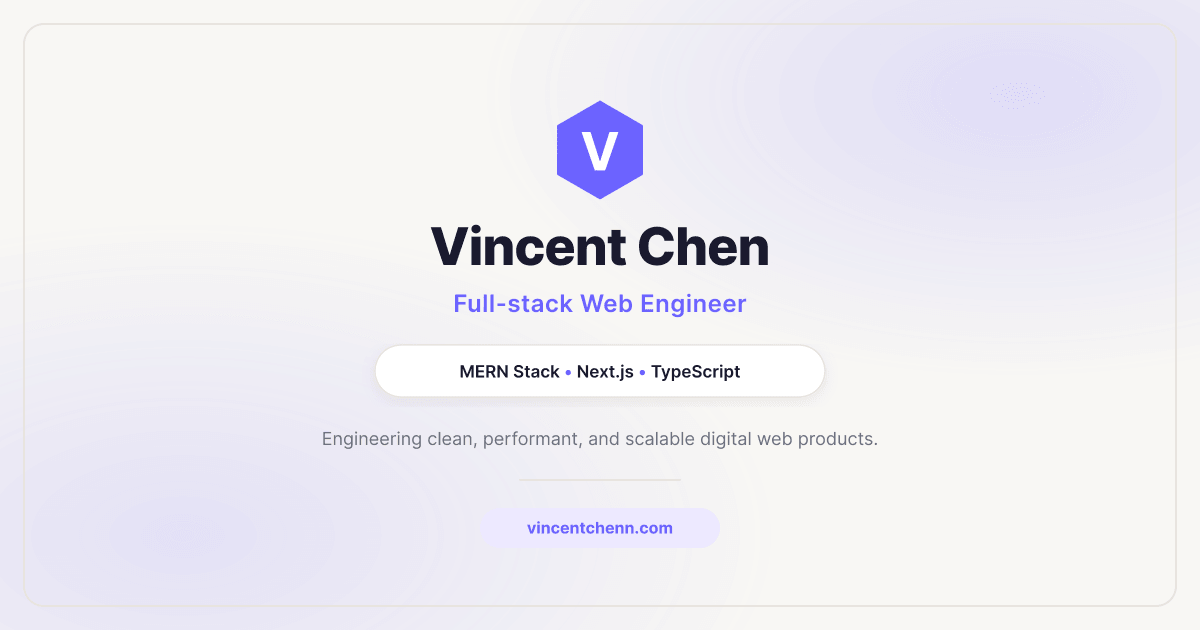
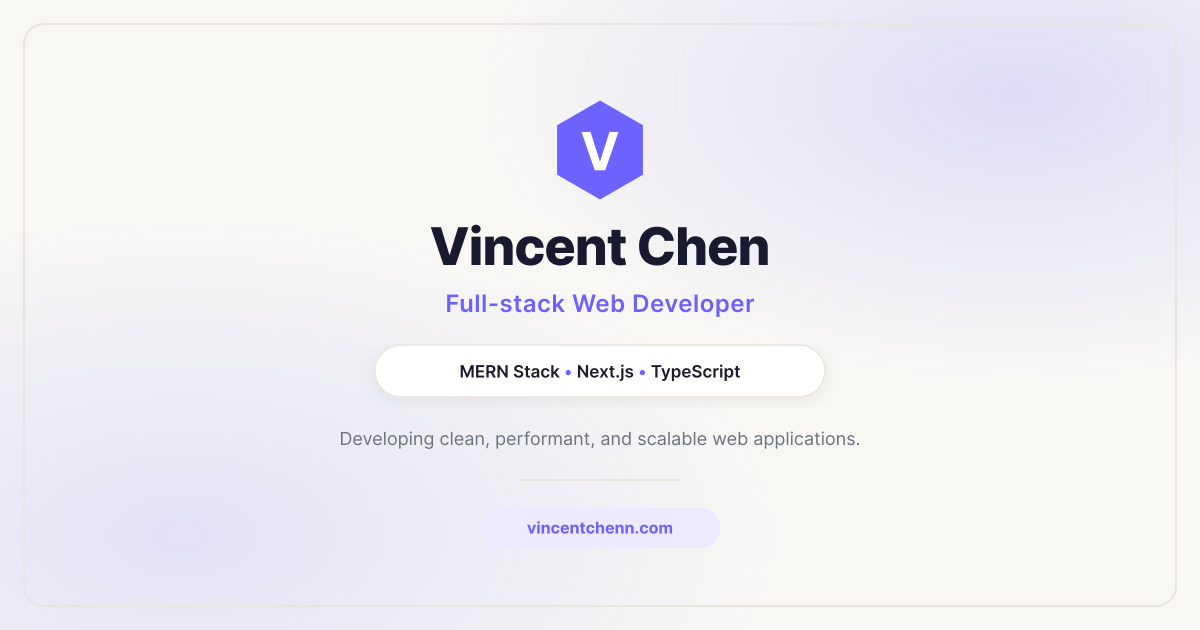
refactor: Title, UI, SEO, and Metadata Updates

Changed region(s): [[0.2775, 0.6635, 0.74, 0.7238], [0.37, 0.4524, 0.6167, 0.5127]]

diff --git a/app/layout.tsx b/app/layout.tsx
@@ -15,13 +15,14 @@ const inter = Inter({
 
 export const metadata: Metadata = {
   metadataBase: new URL("https://vincentchenn.com"),
-  title: "Vincent Chen | Full-stack Web Engineer",
+  title: "Vincent Chen | Full-stack Web Developer",
   description:
-    "Software engineer with hands-on experience in full-stack MERN development, specializing in building clean and performant web applications with React, TypeScript, Express, and MongoDB.",
+    "Full-stack web developer with hands-on experience in MERN development, specializing in building clean and performant web applications with React, TypeScript, Express, and MongoDB.",
   keywords: [
     "Vincent Chen",
-    "Full-stack Web Engineer",
-    "Software Engineer",
+    "Vincent Chenn",
+    "Full-stack Web Developer",
+    "Web Developer",
     "React",
     "TypeScript",
     "Node.js",
@@ -40,24 +41,24 @@ export const metadata: Metadata = {
     type: "website",
     locale: "en_US",
     url: "https://vincentchenn.com",
-    title: "Vincent Chen | Full-stack Web Engineer",
+    title: "Vincent Chen | Full-stack Web Developer",
     description:
-      "Software engineer with hands-on experience in full-stack MERN development, specializing in building clean and performant web applications with React, TypeScript, Express, and MongoDB.",
+      "Full-stack web developer with hands-on experience in MERN development, specializing in building clean and performant web applications with React, TypeScript, Express, and MongoDB.",
     siteName: "Vincent Chen Portfolio",
     images: [
       {
         url: "/images/og-image.png",
         width: 1200,
         height: 630,
-        alt: "Vincent Chen | Full-stack Web Engineer Portfolio",
+        alt: "Vincent Chen | Full-stack Web Developer Portfolio",
       },
     ],
   },
   twitter: {
     card: "summary_large_image",
-    title: "Vincent Chen | Full-stack Web Engineer",
+    title: "Vincent Chen | Full-stack Web Developer",
     description:
-      "Software engineer with hands-on experience in full-stack MERN development, specializing in building clean and performant web applications with React, TypeScript, Express, and MongoDB.",
+      "Full-stack web developer with hands-on experience in MERN development, specializing in building clean and performant web applications with React, TypeScript, Express, and MongoDB.",
     images: ["/images/og-image.png"],
   },
   robots: {
@@ -75,7 +76,7 @@ export default function RootLayout({ children }: { children: React.ReactNode }) 
     "@type": "Person",
     name: "Vincent Chen",
     url: "https://vincentchenn.com",
-    jobTitle: "Full-stack Web Engineer",
+    jobTitle: "Full-stack Web Developer",
     sameAs: [
       "https://github.com/Vincent0-8",
       "https://www.linkedin.com/in/vincent-chenn/",
@@ -105,7 +106,7 @@ export default function RootLayout({ children }: { children: React.ReactNode }) 
               history.scrollRestoration = "manual";
               window.scrollTo(0, 0);
               console.log(
-                "%cVincent Chen | Full-stack Web Engineer\\n%cDesigned and developed with Next.js, TypeScript & Tailwind CSS.\\nContact: me@vincentchenn.com",
+                "%cVincent Chen | Full-stack Web Developer\\n%cDesigned and developed with Next.js, TypeScript & Tailwind CSS.\\nContact: me@vincentchenn.com",
                 "color: #6c63ff; font-weight: bold; font-size: 14px;",
                 "color: #6b7280; font-size: 12px;"
               );

diff --git a/components/sections/Hero.tsx b/components/sections/Hero.tsx
@@ -65,13 +65,13 @@ export default function Hero() {
       {/* 2. Headline Title */}
       <div className="mb-4 flex">
         <h2 className="text-lg sm:text-xl font-bold text-(--color-text-primary)">
-          Full-stack Web Engineer <span className="text-(--color-text-secondary) font-normal">— MERN Stack & TypeScript</span>
+          Full-stack Web Developer <span className="text-(--color-text-secondary) font-normal">— MERN Stack & TypeScript</span>
         </h2>
       </div>
 
       {/* 3. Bio Description */}
       <p className="text-(--color-text-secondary) leading-relaxed text-sm sm:text-base max-w-6xl mb-8">
-        Full-stack Web Engineer with hands-on experience in full-stack MERN development, specializing in building clean and performant web applications with{" "}
+        Full-stack Web Developer with hands-on experience in full-stack MERN development, specializing in building clean and performant web applications with{" "}
         <span className="inline-flex items-center font-medium text-accent bg-accent/10 px-2 py-0.5 rounded text-xs">
           React
         </span>{" "}

diff --git a/app/projects/layout.tsx b/app/projects/layout.tsx
@@ -3,11 +3,11 @@ import type { Metadata } from "next";
 export const metadata: Metadata = {
   title: "All Projects | Vincent Chen",
   description:
-    "A complete archive of web applications, platforms, and client work engineered by Vincent Chen. Filter by tech stack to explore specific technologies.",
+    "A complete archive of web applications, platforms, and client work developed by Vincent Chen. Filter by tech stack to explore specific technologies.",
   openGraph: {
     title: "All Projects | Vincent Chen",
     description:
-      "A complete archive of web applications, platforms, and client work engineered by Vincent Chen. Filter by tech stack to explore specific technologies.",
+      "A complete archive of web applications, platforms, and client work developed by Vincent Chen. Filter by tech stack to explore specific technologies.",
     url: "https://vincentchenn.com/projects",
   },
 };

diff --git a/app/projects/page.tsx b/app/projects/page.tsx
@@ -107,7 +107,7 @@ export default function ProjectsPage() {
             All Projects
           </h1>
           <p className="text-(--color-text-secondary) text-sm sm:text-base leading-relaxed">
-            A complete archive of web applications, platforms, and client work I&apos;ve engineered. Filter by tech stack to explore specific technologies.
+            A complete archive of web applications, platforms, and client work I&apos;ve developed. Filter by tech stack to explore specific technologies.
           </p>
         </div>
 

diff --git a/README.md b/README.md
@@ -25,6 +25,6 @@ Personal Website for professional profile and projects showcase.
 
 ### Future Development 
 
-- Engineer Career Experience Section
+- Professional Experience Section
 - Light/Dark mode 
 
